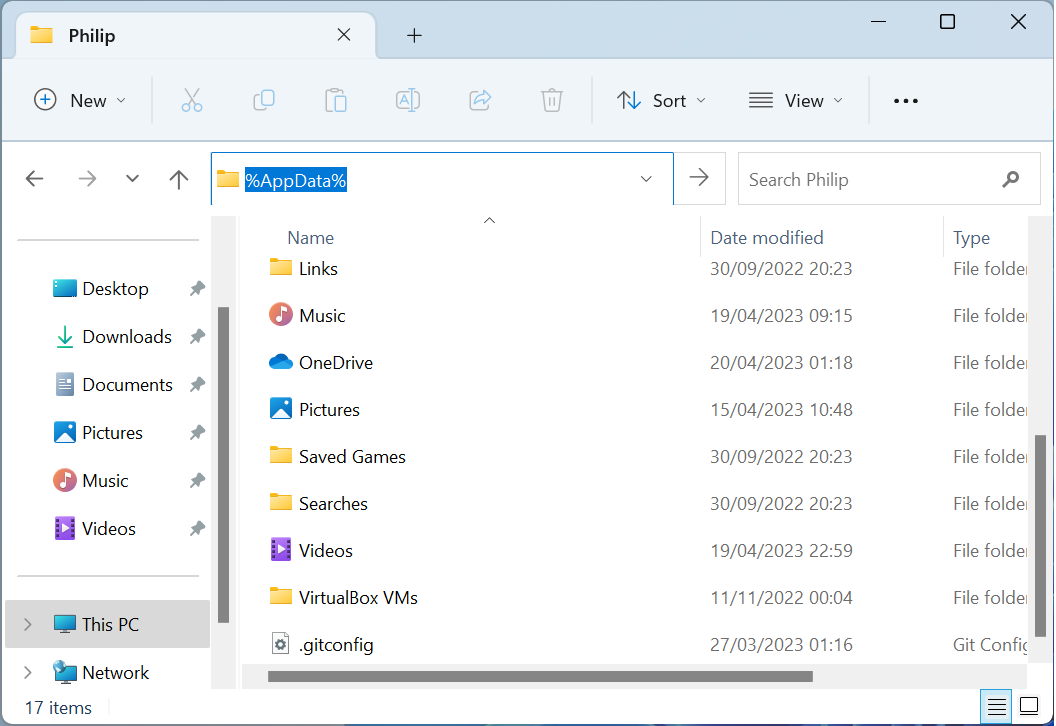
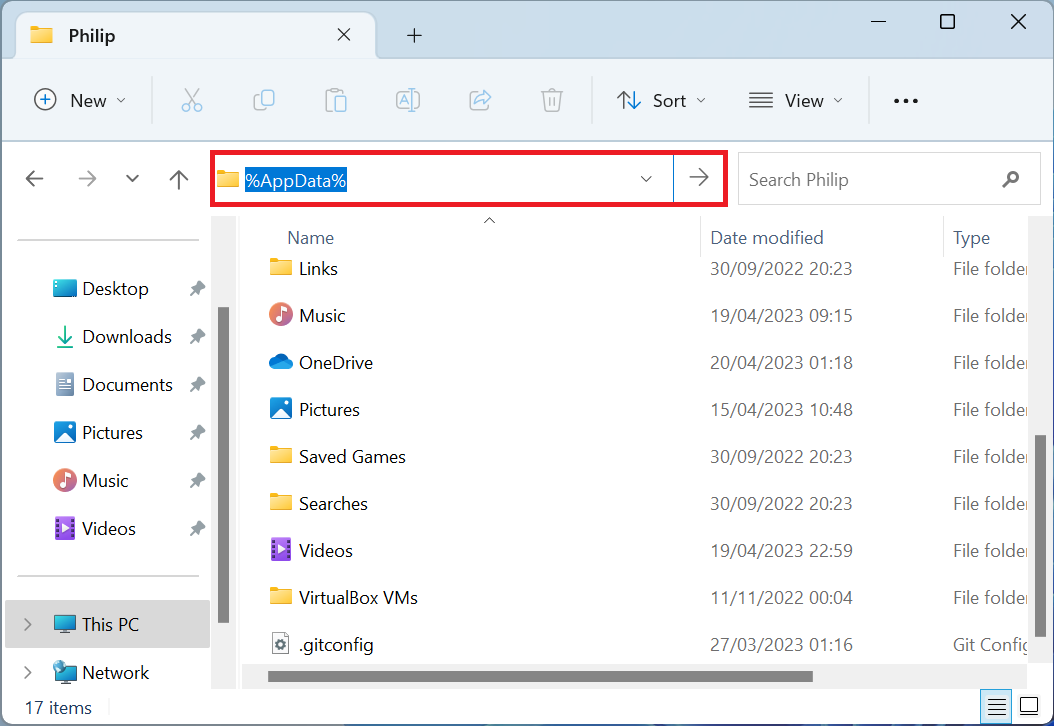
Update

Changed region(s): [[0.1875, 0.1818, 0.6875, 0.303]]

diff --git a/001_install/001_windows_install/readme.md b/001_install/001_windows_install/readme.md
@@ -16,9 +16,96 @@ The performance for Python will be very poor if these system requirements are no
 
 ## Uninstall
 
-Before proceeding uninstall any version of Python or Python distributions you may have previously installed such as Anaconda, Miniconda, Mambaforge or Miniforge. Uninstall any standalone Spyder and any other Python IDEs. This will clean up your computer and prevent any confusion.
+Skip this section if Python has never been installed on your computer.
 
-If you have two versions of one of these distributions installed and have uninstalled the latest version... the Windows 11 Installed Apps may still list the old version but have problems removing it. In such a scenario you may get better results by accessing the older Programs and Features. This can be accessed by pressing ```⊞``` and ```r``` to open up a run dialog. Input ```appwiz.cpl```.
+Before proceeding uninstall any version of Python or Python distributions you may have previously installed. Right click the Start button and select Installed Apps:
+
+![img_419](./images/img_419.png)
+
+Uninstall Anaconda, Miniconda, Mambaforge or Miniforge. Uninstall any standalone Spyder, Python and any other Python IDEs. This will clean up your computer and prevent any confusion:
+
+![img_420](./images/img_420.png)
+![img_421](./images/img_421.png)
+![img_422](./images/img_422.png)
+![img_423](./images/img_423.png)
+
+Sometimes Installed Apps has an issue showing two entries for a prgoram that has been udpated. It is unable to remove the second entry once the first has been uninstalled. If this happens press ```⊞``` and ```r``` and input:
+
+```
+appwiz.cpl
+```
+
+![img_424](./images/img_424.png)
+
+This will launch the legacy Programs and Features which usually fares better in such a scenario:
+
+![img_425](./images/img_425.png)
+
+Open up file explorer and input ```%UserProfile%``` in the address bar:
+
+![img_426](./images/img_426.png)
+
+Delete the old configuration folders ```.conda```, ```.continuum```, ```.ipython```, ```.jupyter```, ```.matplotlib``` and ```.spyder-py3```:
+
+![img_427](./images/img_427.png)
+
+Delete the ```jedi``` folder:
+
+![img_428](./images/img_428.png)
+
+Delete the ```.condarc``` file. Having this file in particular may result in the ```mamba``` package manager using the wrong channel:
+
+![img_429](./images/img_429.png)
+
+Open up file explorer and input ```%AppData%``` in the address bar:
+
+![img_430](./images/img_430.png)
+
+Delete the ```.anaconda``` and ```jupyter``` folders:
+
+![img_431](./images/img_431.png)
+
+Press ```alt``` and ```↑``` to go up a level and then select the Roaming subfolder:
+
+![img_432](./images/img_432.png)
+
+Delete the ```conda```, ```seaborn``` and ```spyder``` folders:
+
+![img_433](./images/img_433.png)
+![img_434](./images/img_434.png)
+
+Go to the Microsoft folder, select Windows, Start Menu and Programs and delete any old Start Menu entries:
+
+![img_442](./images/img_442.png)
+![img_443](./images/img_443.png)
+![img_444](./images/img_444.png)
+![img_445](./images/img_445.png)
+![img_446](./images/img_446.png)
+
+Open up file explorer and input ```%ProgramData%``` in the address bar. This location is used if one of these programs is installed for All Users. Look for the same folders above and delete them:
+
+![img_435](./images/img_435.png)
+![img_436](./images/img_436.png)
+
+Right click the Start Button and select System:
+
+![img_447](./images/img_447.png)
+
+Select Advanced System Settings:
+
+![img_448](./images/img_448.png)
+
+Select Environmental Variables:
+
+![img_449](./images/img_449.png)
+
+Select the Path and select Edit:
+
+![img_450](./images/img_450.png)
+
+Ensure there are no old entries to Anaconda, Miniconda, Mambaforge, Miniforge or Python:
+
+![img_451](./images/img_451.png)
 
 ## Mambaforge Install
 

diff --git a/001_install/002_linux_install/readme.md b/001_install/002_linux_install/readme.md
@@ -16,27 +16,43 @@ The performance for Python will be poor if these system requirements are not sat
 
 ## Uninstall
 
-Before proceeding remove any Python distributions such as Anaconda, Miniconda, Mambaforge or Miniforge. These distributions are typically found as subfolders in the Home ```~``` folder:
+Skip this section if Python has never been installed on your computer.
 
-![img_001](./images/img_001.png)
+Before proceeding remove any Python distributions such as Anaconda, Miniconda, Mambaforge or Miniforge. These distributions are typically found as subfolders in the Home ```~``` folder. The old installation can be uninstalled by deleting the corresponding folder:
 
-They can be deleted by deleting the corresponding folder. Open the Terminal. The prompt should look like the following ```philip@pc~``` where ```philip``` is the user name, ```pc``` is the ```pc``` name and ```~``` is an abbreviation for the Home folder. There should be no ```(base)``` prefix:
+![img_312](./images/img_312.png)
+
+These distributions leave behind alot of hidden configuration files. Select Show Hidden Files:
+
+![img_313](./images/img_313.png)
+
+Close any open Terminals. Then open up the ```.bashrc``` file in the text editor:
+
+![img_314](./images/img_314.png)
+
+Remove the conda initialise code block:
+
+![img_315](./images/img_315.png)
+
+Because Mambaforge and Anaconda are closely related and the ```mamba``` package manager uses the ```conda``` package manager under the hood, having some of the old configuration files, particularly the ```.condarc``` will change the channels used by the ```mamba``` package manager making it less reliable:
+
+![img_316](./images/img_316.png)
+
+![img_317](./images/img_317.png)
+
+Delete the ```.condarc``` file. It is also recommended to delete the ```.anaconda```, ```.conda```, ```.continuum```, ```.ipython``` and ```.jupyter``` folders.
+
+The ```.config``` folder contains configuration files for some Python libraries and other programs. It shouldn't be outright deleted:
+
+![img_318](./images/img_318.png)
+
+Instead the ```matplotlib``` subfolder and ```spyder-py3``` subfolder can be deleted:
+
+![img_317](./images/img_317.png)
+
+Open the Terminal. The prompt should look like the following ```philip@pc~``` where ```philip``` is the user name, ```pc``` is the ```pc``` name and ```~``` is an abbreviation for the Home folder. There should be no ```(base)``` prefix:
 
 ![img_002a](./images/img_002a.png)
-
-If there is a ```(base)``` prefix, then select Show Hidden Files:
-
-![img_002](./images/img_002.png)
-
-Open the ```.bashrc``` file in text editor:
-
-![img_003a](./images/img_003a.png)
-
-Search for ```conda```. Remove the conda initialization section and save the ```.bashrc``` file:
-
-![img_003](./images/img_003.png)
-
-Close any Terminal windows and relauch the Terminal. The ```(base)``` prefix should now be removed.
 
 ## Mambaforge Install
 

diff --git a/001_install/readme.md b/001_install/readme.md
@@ -14,7 +14,25 @@ There are three package managers commonly used to install Python and Python pack
 |Anaconda|conda|data science distribution|conda (older packages)|3.10|
 |Miniconda|conda|minimal|conda (older packages)|3.10|
 
-**In this guide Mambaforge will be used as it is the most reliable solution.** Seperate Python 3.11 environments will be made for each IDE. Anaconda has been updated to include a recent version of JupyterLab and a recent version of Spyder. The version of Spyder 5.4.1 preinstalled with Anaconda unfortunately lacks significant code completion fixes which were addressed in Spyder 5.4.2 so use of Spyder in Anaconda will lead to impaired performance until the installer is further updated.
+Anaconda has been updated to include a relatively recent version of JupyterLab and a recent version of Spyder. Unfortunately the version of Spyder 5.4.1 preinstalled with Anaconda unfortunately lacks significant code completion fixes which were addressed in Spyder 5.4.2 so use of Spyder in Anaconda will lead to impaired performance. Although Spyder can be updated to version 5.4.3:
+
+![img_001](./images/img_001.png)
+
+Spyder 5.4.3 reports a missing dependencies python-lsp 1.7.1 (NOK) and 1.7.2 to 1.8.0 is required. This dependency is needed for the improved code completion:
+
+![img_002](./images/img_002.png)
+
+When attempting to install the dependency in Anaconda Navigator:
+
+![img_003](./images/img_003.png)
+
+The notice says installing it will modify 30 Packages, **remove 185 packages** and install 4 packages:
+
+![img_004](./images/img_004.png)
+
+In other words installing it will break the Anaconda ```base``` installation and therefore a seperate environment will need to be used to properly install Spyder with all its dependencies.
+
+**In this guide Mambaforge will be used as it is the most reliable solution.** Seperate Python 3.11 environments will be made for each IDE. 
 
 Python Version Numbers are of the format X.Y.Z for example version 3.11.3 where X is the major version 3, Y is the minor version 11 and Z is the patch version 3. 
 
